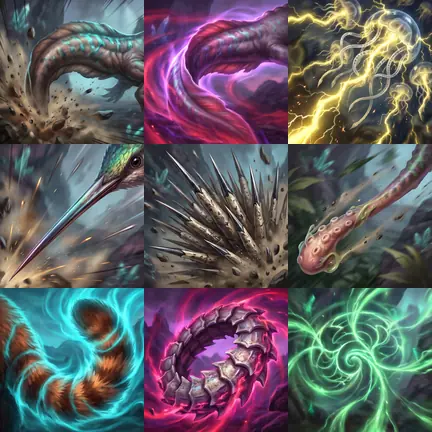
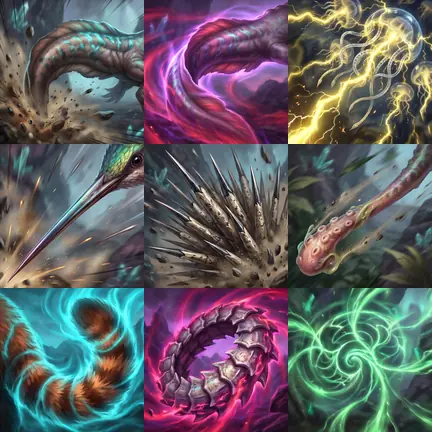
wip(art): ability sheets cut from Weave Lite runs
Claude-Session: https://claude.ai/code/session_01WQBAi8Rzch2GYdNNGSzaZ5

diff --git a/src/ui/ability-art.js b/src/ui/ability-art.js
@@ -11,115 +11,115 @@
   U.ABILITY_SHEETS = [
     ['axo_tail.P', 'axo_tail.E', 'jel_sting.E', 'hmb_needle.P', 'por_quills.P', 'cha_tongue.P', 'rpa_tail.E', 'sea_plates.E', 'hum_mind.E'],
     ['tig_stripes.P', 'tig_stripes.E', 'che_claws.P', 'oct_ink.E', 'eel_discharge.P', 'pea_sweep.E', 'sco_sting.P', 'owl_silent.E', 'cro_roll.P'],
-    ['hum_coop.P', 'hum_coop.E', 'hum_general.P', 'hum_general.E', 'hum_grip.P', 'hum_grip.E', 'hum_lang.P', 'hum_lang.E', 'hum_mind.P'],
-    ['hum_pattern.P', 'hum_pattern.E', 'hum_persist.P', 'hum_persist.E', 'hum_throw.P', 'hum_throw.E', 'hum_tool.P', 'hum_tool.E', 'jer_burrow.P'],
-    ['jer_burrow.E', 'jer_cache.P', 'jer_cache.E', 'jer_ears.P', 'jer_ears.E', 'jer_erratic.P', 'jer_erratic.E', 'jer_gnaw.P', 'jer_gnaw.E'],
-    ['jer_leap.P', 'jer_leap.E', 'jer_tail.P', 'jer_tail.E', 'jer_torpor.P', 'jer_torpor.E', 'jer_vibrissae.P', 'jer_vibrissae.E', 'hop_catapult.P'],
-    ['hop_catapult.E', 'hop_exo.P', 'hop_exo.E', 'hop_eyes.P', 'hop_eyes.E', 'hop_glide.P', 'hop_glide.E', 'hop_mandibles.P', 'hop_mandibles.E'],
-    ['hop_molt.P', 'hop_molt.E', 'hop_strid.P', 'hop_strid.E', 'hop_swarm.P', 'hop_swarm.E', 'hop_tireless.P', 'hop_tireless.E', 'owl_bones.P'],
-    ['owl_bones.E', 'owl_foresight.P', 'owl_foresight.E', 'owl_night.P', 'owl_night.E', 'owl_silent.P', 'owl_soar.P', 'owl_soar.E', 'owl_sound.P'],
-    ['owl_sound.E', 'owl_swivel.P', 'owl_swivel.E', 'owl_talon.P', 'owl_talon.E', 'owl_threat.P', 'owl_threat.E', 'oct_arms.P', 'oct_arms.E'],
-    ['oct_bite.P', 'oct_bite.E', 'oct_chemo.P', 'oct_chemo.E', 'oct_cloak.P', 'oct_cloak.E', 'oct_imperson.P', 'oct_imperson.E', 'oct_ink.P'],
-    ['oct_intellect.P', 'oct_intellect.E', 'oct_jet.P', 'oct_jet.E', 'oct_squeeze.P', 'oct_squeeze.E', 'gec_autotomy.P', 'gec_autotomy.E', 'gec_basking.P'],
+    ['hum_coop.P', 'hum_coop.E', 'hum_grip.P', 'hum_grip.E', 'hum_lang.P', 'hum_lang.E', 'hum_mind.P', 'hum_pattern.P', 'hum_pattern.E'],
+    ['hum_persist.P', 'hum_persist.E', 'hum_throw.P', 'hum_throw.E', 'hum_tool.P', 'hum_tool.E', 'owl_silent.P', 'owl_sound.P', 'owl_sound.E'],
+    ['owl_talon.P', 'owl_talon.E', 'oct_cloak.P', 'oct_cloak.E', 'oct_jet.P', 'oct_jet.E', 'axo_regen.P', 'axo_regen.E', 'eel_discharge.E'],
+    ['eel_electro.P', 'eel_electro.E', 'ott_kelp.P', 'ott_kelp.E', 'wea_musk.P', 'wea_musk.E', 'mou_scurry.P', 'mou_scurry.E', 'mou_tiny.P'],
+    ['mou_tiny.E', 'heh_burst.P', 'heh_burst.E', 'heh_spines.P', 'heh_spines.E', 'fla_march.P', 'fla_march.E', 'fla_salt.P', 'fla_salt.E'],
+    ['rav_carrion.P', 'rav_carrion.E', 'rav_mob.P', 'rav_mob.E', 'tor_beak.P', 'tor_beak.E', 'tor_shell.P', 'tor_shell.E', 'koi_calm.P'],
+    ['koi_calm.E', 'koi_gold.P', 'koi_gold.E', 'msh_colours.P', 'msh_colours.E', 'msh_punch.P', 'msh_punch.E', 'msh_spear.P', 'msh_spear.E'],
+    ['hum_general.P', 'hum_general.E', 'owl_bones.P', 'owl_bones.E', 'owl_foresight.P', 'owl_foresight.E', 'owl_night.P', 'owl_night.E', 'owl_soar.P'],
+    ['owl_soar.E', 'owl_swivel.P', 'owl_swivel.E', 'owl_threat.P', 'owl_threat.E', 'oct_arms.P', 'oct_arms.E', 'oct_bite.P', 'oct_bite.E'],
+    ['oct_chemo.P', 'oct_chemo.E', 'oct_imperson.P', 'oct_imperson.E', 'oct_ink.P', 'oct_intellect.P', 'oct_intellect.E', 'oct_squeeze.P', 'oct_squeeze.E'],
+    ['axo_degen.P', 'axo_degen.E', 'axo_gills.P', 'axo_gills.E', 'axo_lateral.P', 'axo_lateral.E', 'axo_meta.P', 'axo_meta.E', 'axo_neoteny.P'],
+    ['axo_neoteny.E', 'axo_suction.P', 'axo_suction.E', 'axo_toxic.P', 'axo_toxic.E', 'eel_buoyancy.P', 'eel_buoyancy.E', 'eel_chargeup.P', 'eel_chargeup.E'],
+    ['eel_doublet.P', 'eel_doublet.E', 'eel_galvanic.P', 'eel_galvanic.E', 'eel_gulp.P', 'eel_gulp.E', 'eel_insulated.P', 'eel_insulated.E', 'eel_ribbon.P'],
+    ['eel_ribbon.E', 'ott_raft.P', 'ott_raft.E', 'ott_roll.P', 'ott_roll.E', 'ott_shell.P', 'ott_shell.E', 'ott_whisker.P', 'ott_whisker.E'],
+    ['wea_ferocity.P', 'wea_ferocity.E', 'wea_fur.P', 'wea_fur.E', 'mou_gap.P', 'mou_gap.E', 'mou_squeak.P', 'mou_squeak.E', 'mou_stash.P'],
+    ['mou_stash.E', 'hed_venom.P', 'hed_venom.E', 'heh_anoint.P', 'heh_anoint.E', 'heh_forage.P', 'heh_forage.E', 'heh_hibernate.P', 'heh_hibernate.E'],
+    ['heh_huff.P', 'heh_huff.E', 'heh_snuffle.P', 'heh_snuffle.E', 'fla_filter.P', 'fla_filter.E', 'fla_milk.P', 'fla_milk.E', 'fla_oneleg.P'],
+    ['fla_oneleg.E', 'fla_pink.P', 'fla_pink.E', 'bir_mimic.P', 'bir_mimic.E', 'rav_cache.P', 'rav_cache.E', 'rav_memory.P', 'rav_memory.E'],
+    ['rav_snow.P', 'rav_snow.E', 'rav_wolf.P', 'rav_wolf.E', 'tor_plod.P', 'tor_plod.E', 'tor_sure.P', 'tor_sure.E', 'tor_withdraw.P'],
+    ['tor_withdraw.E', 'fis_school.P', 'fis_school.E', 'koi_gate.P', 'koi_gate.E', 'koi_shimmer.P', 'koi_shimmer.E', 'koi_up.P', 'koi_up.E'],
+    ['msh_burrow.P', 'msh_burrow.E', 'msh_glow.P', 'msh_glow.E', 'msh_ritual.P', 'msh_ritual.E', 'jer_burrow.P', 'jer_burrow.E', 'jer_cache.P'],
+    ['jer_cache.E', 'jer_ears.P', 'jer_ears.E', 'jer_erratic.P', 'jer_erratic.E', 'jer_gnaw.P', 'jer_gnaw.E', 'jer_leap.P', 'jer_leap.E'],
+    ['jer_tail.P', 'jer_tail.E', 'jer_torpor.P', 'jer_torpor.E', 'jer_vibrissae.P', 'jer_vibrissae.E', 'hop_catapult.P', 'hop_catapult.E', 'hop_exo.P'],
+    ['hop_exo.E', 'hop_eyes.P', 'hop_eyes.E', 'hop_glide.P', 'hop_glide.E', 'hop_mandibles.P', 'hop_mandibles.E', 'hop_molt.P', 'hop_molt.E'],
+    ['hop_strid.P', 'hop_strid.E', 'hop_swarm.P', 'hop_swarm.E', 'hop_tireless.P', 'hop_tireless.E', 'gec_autotomy.P', 'gec_autotomy.E', 'gec_basking.P'],
     ['gec_basking.E', 'gec_forensic.P', 'gec_forensic.E', 'gec_hide.P', 'gec_hide.E', 'gec_lockjaw.P', 'gec_lockjaw.E', 'gec_patience.P', 'gec_patience.E'],
-    ['gec_scent.P', 'gec_scent.E', 'gec_setae.P', 'gec_setae.E', 'gec_sprint.P', 'gec_sprint.E', 'axo_degen.P', 'axo_degen.E', 'axo_gills.P'],
-    ['axo_gills.E', 'axo_lateral.P', 'axo_lateral.E', 'axo_meta.P', 'axo_meta.E', 'axo_neoteny.P', 'axo_neoteny.E', 'axo_regen.P', 'axo_regen.E'],
-    ['axo_suction.P', 'axo_suction.E', 'axo_toxic.P', 'axo_toxic.E', 'eel_buoyancy.P', 'eel_buoyancy.E', 'eel_chargeup.P', 'eel_chargeup.E', 'eel_discharge.E'],
-    ['eel_doublet.P', 'eel_doublet.E', 'eel_electro.P', 'eel_electro.E', 'eel_galvanic.P', 'eel_galvanic.E', 'eel_gulp.P', 'eel_gulp.E', 'eel_insulated.P'],
-    ['eel_insulated.E', 'eel_ribbon.P', 'eel_ribbon.E', 'fly_digest.P', 'fly_digest.E', 'fly_dormancy.P', 'fly_dormancy.E', 'fly_hairs.P', 'fly_hairs.E'],
-    ['fly_lure.P', 'fly_lure.E', 'fly_photo.P', 'fly_photo.E', 'fly_rhizome.P', 'fly_rhizome.E', 'fly_root.P', 'fly_root.E', 'fly_snap.P'],
-    ['fly_snap.E', 'fly_vine.P', 'fly_vine.E', 'cor_bond.P', 'cor_bond.E', 'cor_decomp.P', 'cor_decomp.E', 'cor_drain.P', 'cor_drain.E'],
-    ['cor_enzyme.P', 'cor_enzyme.E', 'cor_hijack.P', 'cor_hijack.E', 'cor_network.P', 'cor_network.E', 'cor_radio.P', 'cor_radio.E', 'cor_regrowth.P'],
-    ['cor_regrowth.E', 'cor_spore.P', 'cor_spore.E', 'tar_claw.P', 'tar_claw.E', 'tar_cling.P', 'tar_cling.E', 'tar_crypto.P', 'tar_crypto.E'],
-    ['tar_dsup.P', 'tar_dsup.E', 'tar_extremo.P', 'tar_extremo.E', 'tar_replicate.P', 'tar_replicate.E', 'tar_revival.P', 'tar_revival.E', 'tar_stylet.P'],
-    ['tar_stylet.E', 'tar_vitrify.P', 'tar_vitrify.E', 'ora_leaf.P', 'ora_leaf.E', 'ora_memory.P', 'ora_memory.E', 'ora_reach.P', 'ora_reach.E'],
-    ['ora_study.P', 'ora_study.E', 'pri_canopy.P', 'pri_canopy.E', 'pri_groom.P', 'pri_groom.E', 'lem_scent.P', 'lem_scent.E', 'lem_stink.P'],
-    ['lem_stink.E', 'lem_sun.P', 'lem_sun.E', 'lem_tail.P', 'lem_tail.E', 'pri_troop.P', 'pri_troop.E', 'man_charge.P', 'man_charge.E'],
-    ['man_cheek.P', 'man_cheek.E', 'man_fang.P', 'man_fang.E', 'man_paint.P', 'man_paint.E', 'cat_bite.P', 'cat_bite.E', 'cat_claws.P'],
-    ['cat_claws.E', 'cat_eyes.P', 'cat_eyes.E', 'cat_feet.P', 'cat_feet.E', 'cat_pounce.P', 'cat_pounce.E', 'cat_stalk.P', 'cat_stalk.E'],
-    ['cat_tufts.P', 'cat_tufts.E', 'lyn_ghost.P', 'lyn_ghost.E', 'lyn_snowshoe.P', 'lyn_snowshoe.E', 'car_leap.P', 'car_leap.E', 'car_swat.P'],
-    ['car_swat.E', 'oce_descent.P', 'oce_descent.E', 'oce_prowl.P', 'oce_prowl.E', 'oce_rosette.P', 'oce_rosette.E', 'tig_roar.P', 'tig_roar.E'],
-    ['tig_swim.P', 'tig_swim.E', 'che_claws.E', 'che_hyper.P', 'che_hyper.E', 'che_rudder.P', 'che_rudder.E', 'che_tear.P', 'che_tear.E'],
-    ['che_trip.P', 'che_trip.E', 'dog_howl.P', 'dog_howl.E', 'dog_nose.P', 'dog_nose.E', 'dog_pin.P', 'dog_pin.E', 'dog_trot.P'],
-    ['dog_trot.E', 'fen_ears.P', 'fen_ears.E', 'fen_night.P', 'fen_night.E', 'fen_thrift.P', 'fen_thrift.E', 'fox_den.P', 'fox_den.E'],
-    ['fox_pounce.P', 'fox_pounce.E', 'fox_brush.P', 'fox_brush.E', 'fox_cunning.P', 'fox_cunning.E', 'fox_magnet.P', 'fox_magnet.E', 'dog_opp.P'],
-    ['dog_opp.E', 'dog_yip.P', 'dog_yip.E', 'jac_coat.P', 'jac_coat.E', 'jac_luck.P', 'jac_luck.E', 'jac_pair.P', 'jac_pair.E'],
-    ['coy_adapt.P', 'coy_adapt.E', 'coy_lope.P', 'coy_lope.E', 'coy_trick.P', 'coy_trick.E', 'hye_crush.P', 'hye_crush.E', 'hye_endure.P'],
-    ['hye_endure.E', 'hye_matri.P', 'hye_matri.E', 'hye_scav.P', 'hye_scav.E', 'hye_whoop.P', 'hye_whoop.E', 'ott_kelp.P', 'ott_kelp.E'],
-    ['ott_raft.P', 'ott_raft.E', 'ott_roll.P', 'ott_roll.E', 'ott_shell.P', 'ott_shell.E', 'ott_whisker.P', 'ott_whisker.E', 'wea_ferocity.P'],
-    ['wea_ferocity.E', 'wea_fur.P', 'wea_fur.E', 'wea_musk.P', 'wea_musk.E', 'bad_bee.P', 'bad_bee.E', 'bad_bite.P', 'bad_bite.E'],
-    ['bad_dig.P', 'bad_dig.E', 'bad_hide.P', 'bad_hide.E', 'bad_never.P', 'bad_never.E', 'bad_venom.P', 'bad_venom.E', 'rpa_bamboo.P'],
-    ['rpa_bamboo.E', 'rpa_cold.P', 'rpa_cold.E', 'rpa_nap.P', 'rpa_nap.E', 'rpa_tail.P', 'rpa_tall.P', 'rpa_tall.E', 'sea_blubber.P'],
-    ['sea_blubber.E', 'sea_breath.P', 'sea_breath.E', 'sea_tusk.P', 'sea_tusk.E', 'wal_bellow.P', 'wal_bellow.E', 'wal_haul.P', 'wal_haul.E'],
-    ['wal_ice.P', 'wal_ice.E', 'wal_suction.P', 'wal_suction.E', 'wal_ton.P', 'wal_ton.E', 'wal_whisker.P', 'wal_whisker.E', 'orc_apex.P'],
-    ['orc_apex.E', 'orc_beach.P', 'orc_beach.E', 'orc_breach.P', 'orc_breach.E', 'orc_tactics.P', 'orc_tactics.E', 'orc_wave.P', 'orc_wave.E'],
-    ['sea_echo.P', 'sea_echo.E', 'sea_song.P', 'sea_song.E', 'nar_dive.P', 'nar_dive.E', 'nar_ghost.P', 'nar_ghost.E', 'nar_lead.P'],
-    ['nar_lead.E', 'nar_sense.P', 'nar_sense.E', 'hoof_chew.P', 'hoof_chew.E', 'hoof_eyes.P', 'hoof_eyes.E', 'hoof_hooves.P', 'hoof_hooves.E'],
-    ['hoof_horn.P', 'hoof_horn.E', 'hoof_kick.P', 'hoof_kick.E', 'hoof_ring.P', 'hoof_ring.E', 'yak_air.P', 'yak_air.E', 'yak_bearer.P'],
-    ['yak_bearer.E', 'yak_coat.P', 'yak_coat.E', 'bis_hump.P', 'bis_hump.E', 'bis_stampede.P', 'bis_stampede.E', 'bis_wallow.P', 'bis_wallow.E'],
-    ['ory_mirage.P', 'ory_mirage.E', 'ory_rapier.P', 'ory_rapier.E', 'ory_store.P', 'ory_store.E', 'ram_butt.P', 'ram_butt.E', 'ram_curl.P'],
-    ['ram_curl.E', 'ram_sure.P', 'ram_sure.E', 'hoof_antlers.P', 'hoof_antlers.E', 'hoof_bound.P', 'hoof_bound.E', 'moo_bellow.P', 'moo_bellow.E'],
-    ['moo_stand.P', 'moo_stand.E', 'moo_wade.P', 'moo_wade.E', 'dee_dapple.P', 'dee_dapple.E', 'dee_ears.P', 'dee_ears.E', 'dee_spring.P'],
-    ['dee_spring.E', 'zeb_bite.P', 'zeb_bite.E', 'zeb_bolt.P', 'zeb_bolt.E', 'zeb_dazzle.P', 'zeb_dazzle.E', 'zeb_wall.P', 'zeb_wall.E'],
-    ['zeb_water.P', 'zeb_water.E', 'mou_gap.P', 'mou_gap.E', 'mou_scurry.P', 'mou_scurry.E', 'mou_squeak.P', 'mou_squeak.E', 'mou_stash.P'],
-    ['mou_stash.E', 'mou_tiny.P', 'mou_tiny.E', 'por_back.P', 'por_back.E', 'por_bark.P', 'por_bark.E', 'por_climb.P', 'por_climb.E'],
-    ['por_quills.E', 'por_rattle.P', 'por_rattle.E', 'por_shed.P', 'por_shed.E', 'por_waddle.P', 'por_waddle.E', 'har_box.P', 'har_box.E'],
-    ['har_ears.P', 'har_ears.E', 'har_low.P', 'har_low.E', 'har_march.P', 'har_march.E', 'har_thump.P', 'har_thump.E', 'har_winter.P'],
-    ['har_winter.E', 'bha_bolt.P', 'bha_bolt.E', 'bha_forage.P', 'bha_forage.E', 'bha_kick.P', 'bha_kick.E', 'arm_slow.P', 'arm_slow.E'],
-    ['slo_algae.P', 'slo_algae.E', 'slo_hang.P', 'slo_hang.E', 'slo_hook.P', 'slo_hook.E', 'slo_neck.P', 'slo_neck.E', 'slo_sleep.P'],
-    ['slo_sleep.E', 'slo_swim.P', 'slo_swim.E', 'slo_swipe.P', 'slo_swipe.E', 'slo_unhurried.P', 'slo_unhurried.E', 'adi_bands.P', 'adi_bands.E'],
-    ['adi_breath.P', 'adi_breath.E', 'adi_jump.P', 'adi_jump.E', 'adi_shove.P', 'adi_shove.E', 'adi_snuffle.P', 'adi_snuffle.E', 'arm_curl.P'],
-    ['arm_curl.E', 'arm_dig.P', 'arm_dig.E', 'arm_tongue.P', 'arm_tongue.E', 'pan_ants.P', 'pan_ants.E', 'pan_edges.P', 'pan_edges.E'],
-    ['pan_scales.P', 'pan_scales.E', 'pan_tail.P', 'pan_tail.E', 'pan_upright.P', 'pan_upright.E', 'hed_venom.P', 'hed_venom.E', 'heh_anoint.P'],
-    ['heh_anoint.E', 'heh_burst.P', 'heh_burst.E', 'heh_forage.P', 'heh_forage.E', 'heh_hibernate.P', 'heh_hibernate.E', 'heh_huff.P', 'heh_huff.E'],
-    ['heh_snuffle.P', 'heh_snuffle.E', 'heh_spines.P', 'heh_spines.E', 'kan_box.P', 'kan_box.E', 'kan_hop.P', 'kan_hop.E', 'kan_kickoff.P'],
-    ['kan_kickoff.E', 'kan_lick.P', 'kan_lick.E', 'kan_long.P', 'kan_long.E', 'kan_mob.P', 'kan_mob.E', 'kan_prop.P', 'kan_prop.E'],
-    ['kan_tailkick.P', 'kan_tailkick.E', 'pou_pouch.P', 'pou_pouch.E', 'opo_dead.P', 'opo_dead.E', 'opo_groom.P', 'opo_groom.E', 'opo_hiss.P'],
-    ['opo_hiss.E', 'opo_nose.P', 'opo_nose.E', 'opo_tail.P', 'opo_tail.E', 'opo_thumb.P', 'opo_thumb.E', 'opo_wander.P', 'opo_wander.E'],
-    ['pla_cheek.P', 'pla_cheek.E', 'pla_dive.P', 'pla_dive.E', 'pla_egg.P', 'pla_egg.E', 'pla_electro.P', 'pla_electro.E', 'pla_odd.P'],
-    ['pla_odd.E', 'pla_shut.P', 'pla_shut.E', 'pla_spur.P', 'pla_spur.E', 'pla_web.P', 'pla_web.E', 'eag_fish.P', 'eag_fish.E'],
-    ['eag_lock.P', 'eag_lock.E', 'eag_nest.P', 'eag_nest.E', 'eag_scream.P', 'eag_scream.E', 'eag_soar.P', 'eag_soar.E', 'rap_sight.P'],
-    ['rap_sight.E', 'rap_stoop.P', 'rap_stoop.E', 'haw_bind.P', 'haw_bind.E', 'haw_hedge.P', 'haw_hedge.E', 'haw_hyper.P', 'haw_hyper.E'],
-    ['haw_kite.P', 'haw_kite.E', 'haw_mantle.P', 'haw_mantle.E', 'cra_dance.P', 'cra_dance.E', 'cra_migrate.P', 'cra_migrate.E', 'cra_stride.P'],
-    ['cra_stride.E', 'cra_trumpet.P', 'cra_trumpet.E', 'wad_legs.P', 'wad_legs.E', 'wad_spear.P', 'wad_spear.E', 'wad_still.P', 'wad_still.E'],
-    ['wad_wade.P', 'wad_wade.E', 'her_neck.P', 'her_neck.E', 'her_rookery.P', 'her_rookery.E', 'her_shade.P', 'her_shade.E', 'egr_cattle.P'],
-    ['egr_cattle.E', 'egr_lift.P', 'egr_lift.E', 'egr_plumes.P', 'egr_plumes.E', 'egr_stir.P', 'egr_stir.E', 'ibi_flock.P', 'ibi_flock.E'],
-    ['ibi_flood.P', 'ibi_flood.E', 'ibi_probe.P', 'ibi_probe.E', 'ibi_scribe.P', 'ibi_scribe.E', 'bil_big.P', 'bil_big.E', 'sho_clatter.P'],
-    ['sho_clatter.E', 'sho_collapse.P', 'sho_collapse.E', 'sho_ghost.P', 'sho_ghost.E', 'fla_filter.P', 'fla_filter.E', 'fla_march.P', 'fla_march.E'],
-    ['fla_milk.P', 'fla_milk.E', 'fla_oneleg.P', 'fla_oneleg.E', 'fla_pink.P', 'fla_pink.E', 'fla_salt.P', 'fla_salt.E', 'puf_beakful.P'],
-    ['puf_beakful.E', 'puf_bill.P', 'puf_bill.E', 'puf_cliff.P', 'puf_cliff.E', 'puf_wingdive.P', 'puf_wingdive.E', 'sea_plunge.P', 'sea_plunge.E'],
-    ['sea_proof.P', 'sea_proof.E', 'sea_salt.P', 'sea_salt.E', 'pel_crash.P', 'pel_crash.E', 'pel_glide.P', 'pel_glide.E', 'pel_line.P'],
-    ['pel_line.E', 'pel_scoop.P', 'pel_scoop.E', 'boo_charm.P', 'boo_charm.E', 'boo_colony.P', 'boo_colony.E', 'boo_feet.P', 'boo_feet.E'],
-    ['boo_nest.P', 'boo_nest.E', 'boo_shoal.P', 'boo_shoal.E', 'bir_mimic.P', 'bir_mimic.E', 'rav_cache.P', 'rav_cache.E', 'rav_carrion.P'],
-    ['rav_carrion.E', 'rav_memory.P', 'rav_memory.E', 'rav_mob.P', 'rav_mob.E', 'rav_snow.P', 'rav_snow.E', 'rav_wolf.P', 'rav_wolf.E'],
-    ['bir_life.P', 'bir_life.E', 'par_chatter.P', 'par_chatter.E', 'par_clay.P', 'par_clay.E', 'par_colours.P', 'par_colours.E', 'par_crack.P'],
-    ['par_crack.E', 'tou_bluff.P', 'tou_bluff.E', 'tou_cool.P', 'tou_cool.E', 'tou_croak.P', 'tou_croak.E', 'tou_fold.P', 'tou_fold.E'],
-    ['tou_hop.P', 'tou_hop.E', 'tou_raid.P', 'tou_raid.E', 'tou_toss.P', 'tou_toss.E', 'hmb_back.P', 'hmb_back.E', 'hmb_beats.P'],
-    ['hmb_beats.E', 'hmb_fury.P', 'hmb_fury.E', 'hmb_hover.P', 'hmb_hover.E', 'hmb_memory.P', 'hmb_memory.E', 'hmb_nectar.P', 'hmb_nectar.E'],
-    ['hmb_needle.E', 'hmb_torpor.P', 'hmb_torpor.E', 'bir_alarm.P', 'bir_alarm.E', 'bir_fan.P', 'bir_fan.E', 'bir_spur.P', 'bir_spur.E'],
-    ['pea_eyes.P', 'pea_eyes.E', 'pea_iris.P', 'pea_iris.E', 'pea_roost.P', 'pea_roost.E', 'pea_snake.P', 'pea_snake.E', 'pea_sweep.P'],
-    ['gbd_sprint.P', 'gbd_sprint.E', 'ost_gizzard.P', 'ost_gizzard.E', 'ost_head.P', 'ost_head.E', 'ost_nest.P', 'ost_nest.E', 'ost_stride.P'],
-    ['ost_stride.E', 'ost_wing.P', 'ost_wing.E', 'tur_gobble.P', 'tur_gobble.E', 'tur_roost.P', 'tur_roost.E', 'tur_watch.P', 'tur_watch.E'],
-    ['tur_wattle.P', 'tur_wattle.E', 'cha_casque.P', 'cha_casque.E', 'cha_colour.P', 'cha_colour.E', 'cha_grip.P', 'cha_grip.E', 'cha_sway.P'],
-    ['cha_sway.E', 'cha_tongue.E', 'cha_turret.P', 'cha_turret.E', 'bas_crest.P', 'bas_crest.E', 'bas_dive.P', 'bas_dive.E', 'bas_drop.P'],
-    ['bas_drop.E', 'bas_sprint.P', 'bas_sprint.E', 'bas_two.P', 'bas_two.E', 'bas_water.P', 'bas_water.E', 'hor_ants.P', 'hor_ants.E'],
-    ['hor_crown.P', 'hor_crown.E', 'hor_flat.P', 'hor_flat.E', 'hor_puff.P', 'hor_puff.E', 'hor_shimmy.P', 'hor_shimmy.E', 'hor_squirt.P'],
-    ['hor_squirt.E', 'cro_gape.P', 'cro_gape.E', 'cro_jaws.P', 'cro_jaws.E', 'cro_king.P', 'cro_king.E', 'cro_lurk.P', 'cro_lurk.E'],
-    ['cro_roll.E', 'cro_tail.P', 'cro_tail.E', 'rep_heart.P', 'rep_heart.E', 'rep_hide.P', 'rep_hide.E', 'tor_beak.P', 'tor_beak.E'],
-    ['tor_plod.P', 'tor_plod.E', 'tor_shell.P', 'tor_shell.E', 'tor_sure.P', 'tor_sure.E', 'tor_withdraw.P', 'tor_withdraw.E', 'new_belly.P'],
-    ['new_belly.E', 'new_eft.P', 'new_eft.E', 'new_return.P', 'new_return.E', 'new_rough.P', 'new_rough.E', 'new_tail.P', 'new_tail.E'],
-    ['tfr_chorus.P', 'tfr_chorus.E', 'tfr_glass.P', 'tfr_glass.E', 'tfr_leap.P', 'tfr_leap.E', 'tfr_rain.P', 'tfr_rain.E', 'tfr_startle.P'],
-    ['tfr_startle.E', 'tfr_tongue.P', 'tfr_tongue.E', 'fis_school.P', 'fis_school.E', 'koi_calm.P', 'koi_calm.E', 'koi_gate.P', 'koi_gate.E'],
-    ['koi_gold.P', 'koi_gold.E', 'koi_shimmer.P', 'koi_shimmer.E', 'koi_up.P', 'koi_up.E', 'clo_anemone.P', 'clo_anemone.E', 'clo_dart.P'],
-    ['clo_dart.E', 'clo_mucus.P', 'clo_mucus.E', 'clo_pair.P', 'clo_pair.E', 'clo_pop.P', 'clo_pop.E', 'clo_role.P', 'clo_role.E'],
-    ['lio_corral.P', 'lio_corral.E', 'lio_gulp.P', 'lio_gulp.E', 'lio_hover.P', 'lio_hover.E', 'lio_invader.P', 'lio_invader.E', 'lio_night.P'],
-    ['lio_night.E', 'lio_spines.P', 'lio_spines.E', 'lio_warn.P', 'lio_warn.E', 'sea_anchor.P', 'sea_anchor.E', 'sea_drift.P', 'sea_drift.E'],
-    ['sea_fin.P', 'sea_fin.E', 'sea_plates.P', 'sea_snap.P', 'sea_snap.E', 'snl_radula.P', 'snl_radula.E', 'snl_rain.P', 'snl_rain.E'],
-    ['snl_seal.P', 'snl_seal.E', 'snl_slime.P', 'snl_slime.E', 'snl_stalks.P', 'snl_stalks.E', 'jel_bloom.P', 'jel_bloom.E', 'jel_glow.P'],
-    ['jel_glow.E', 'jel_pulse.P', 'jel_pulse.E', 'jel_reverse.P', 'jel_reverse.E', 'jel_sting.P', 'jel_trail.P', 'jel_trail.E', 'crs_carapace.P'],
-    ['crs_carapace.E', 'crs_molt.P', 'crs_molt.E', 'lob_crusher.P', 'lob_crusher.E', 'lob_den.P', 'lob_den.E', 'lob_feelers.P', 'lob_feelers.E'],
-    ['lob_flip.P', 'lob_flip.E', 'lob_march.P', 'lob_march.E', 'lob_pincer.P', 'lob_pincer.E', 'msh_burrow.P', 'msh_burrow.E', 'msh_colours.P'],
-    ['msh_colours.E', 'msh_glow.P', 'msh_glow.E', 'msh_punch.P', 'msh_punch.E', 'msh_ritual.P', 'msh_ritual.E', 'msh_spear.P', 'msh_spear.E'],
+    ['gec_scent.P', 'gec_scent.E', 'gec_setae.P', 'gec_setae.E', 'gec_sprint.P', 'gec_sprint.E', 'fly_digest.P', 'fly_digest.E', 'fly_dormancy.P'],
+    ['fly_dormancy.E', 'fly_hairs.P', 'fly_hairs.E', 'fly_lure.P', 'fly_lure.E', 'fly_photo.P', 'fly_photo.E', 'fly_rhizome.P', 'fly_rhizome.E'],
+    ['fly_root.P', 'fly_root.E', 'fly_snap.P', 'fly_snap.E', 'fly_vine.P', 'fly_vine.E', 'cor_bond.P', 'cor_bond.E', 'cor_decomp.P'],
+    ['cor_decomp.E', 'cor_drain.P', 'cor_drain.E', 'cor_enzyme.P', 'cor_enzyme.E', 'cor_hijack.P', 'cor_hijack.E', 'cor_network.P', 'cor_network.E'],
+    ['cor_radio.P', 'cor_radio.E', 'cor_regrowth.P', 'cor_regrowth.E', 'cor_spore.P', 'cor_spore.E', 'tar_claw.P', 'tar_claw.E', 'tar_cling.P'],
+    ['tar_cling.E', 'tar_crypto.P', 'tar_crypto.E', 'tar_dsup.P', 'tar_dsup.E', 'tar_extremo.P', 'tar_extremo.E', 'tar_replicate.P', 'tar_replicate.E'],
+    ['tar_revival.P', 'tar_revival.E', 'tar_stylet.P', 'tar_stylet.E', 'tar_vitrify.P', 'tar_vitrify.E', 'ora_leaf.P', 'ora_leaf.E', 'ora_memory.P'],
+    ['ora_memory.E', 'ora_reach.P', 'ora_reach.E', 'ora_study.P', 'ora_study.E', 'pri_canopy.P', 'pri_canopy.E', 'pri_groom.P', 'pri_groom.E'],
+    ['lem_scent.P', 'lem_scent.E', 'lem_stink.P', 'lem_stink.E', 'lem_sun.P', 'lem_sun.E', 'lem_tail.P', 'lem_tail.E', 'pri_troop.P'],
+    ['pri_troop.E', 'man_charge.P', 'man_charge.E', 'man_cheek.P', 'man_cheek.E', 'man_fang.P', 'man_fang.E', 'man_paint.P', 'man_paint.E'],
+    ['cat_bite.P', 'cat_bite.E', 'cat_claws.P', 'cat_claws.E', 'cat_eyes.P', 'cat_eyes.E', 'cat_feet.P', 'cat_feet.E', 'cat_pounce.P'],
+    ['cat_pounce.E', 'cat_stalk.P', 'cat_stalk.E', 'cat_tufts.P', 'cat_tufts.E', 'lyn_ghost.P', 'lyn_ghost.E', 'lyn_snowshoe.P', 'lyn_snowshoe.E'],
+    ['car_leap.P', 'car_leap.E', 'car_swat.P', 'car_swat.E', 'oce_descent.P', 'oce_descent.E', 'oce_prowl.P', 'oce_prowl.E', 'oce_rosette.P'],
+    ['oce_rosette.E', 'tig_roar.P', 'tig_roar.E', 'tig_swim.P', 'tig_swim.E', 'che_claws.E', 'che_hyper.P', 'che_hyper.E', 'che_rudder.P'],
+    ['che_rudder.E', 'che_tear.P', 'che_tear.E', 'che_trip.P', 'che_trip.E', 'dog_howl.P', 'dog_howl.E', 'dog_nose.P', 'dog_nose.E'],
+    ['dog_pin.P', 'dog_pin.E', 'dog_trot.P', 'dog_trot.E', 'fen_ears.P', 'fen_ears.E', 'fen_night.P', 'fen_night.E', 'fen_thrift.P'],
+    ['fen_thrift.E', 'fox_den.P', 'fox_den.E', 'fox_pounce.P', 'fox_pounce.E', 'fox_brush.P', 'fox_brush.E', 'fox_cunning.P', 'fox_cunning.E'],
+    ['fox_magnet.P', 'fox_magnet.E', 'dog_opp.P', 'dog_opp.E', 'dog_yip.P', 'dog_yip.E', 'jac_coat.P', 'jac_coat.E', 'jac_luck.P'],
+    ['jac_luck.E', 'jac_pair.P', 'jac_pair.E', 'coy_adapt.P', 'coy_adapt.E', 'coy_lope.P', 'coy_lope.E', 'coy_trick.P', 'coy_trick.E'],
+    ['hye_crush.P', 'hye_crush.E', 'hye_endure.P', 'hye_endure.E', 'hye_matri.P', 'hye_matri.E', 'hye_scav.P', 'hye_scav.E', 'hye_whoop.P'],
+    ['hye_whoop.E', 'bad_bee.P', 'bad_bee.E', 'bad_bite.P', 'bad_bite.E', 'bad_dig.P', 'bad_dig.E', 'bad_hide.P', 'bad_hide.E'],
+    ['bad_never.P', 'bad_never.E', 'bad_venom.P', 'bad_venom.E', 'rpa_bamboo.P', 'rpa_bamboo.E', 'rpa_cold.P', 'rpa_cold.E', 'rpa_nap.P'],
+    ['rpa_nap.E', 'rpa_tail.P', 'rpa_tall.P', 'rpa_tall.E', 'sea_blubber.P', 'sea_blubber.E', 'sea_breath.P', 'sea_breath.E', 'sea_tusk.P'],
+    ['sea_tusk.E', 'wal_bellow.P', 'wal_bellow.E', 'wal_haul.P', 'wal_haul.E', 'wal_ice.P', 'wal_ice.E', 'wal_suction.P', 'wal_suction.E'],
+    ['wal_ton.P', 'wal_ton.E', 'wal_whisker.P', 'wal_whisker.E', 'orc_apex.P', 'orc_apex.E', 'orc_beach.P', 'orc_beach.E', 'orc_breach.P'],
+    ['orc_breach.E', 'orc_tactics.P', 'orc_tactics.E', 'orc_wave.P', 'orc_wave.E', 'sea_echo.P', 'sea_echo.E', 'sea_song.P', 'sea_song.E'],
+    ['nar_dive.P', 'nar_dive.E', 'nar_ghost.P', 'nar_ghost.E', 'nar_lead.P', 'nar_lead.E', 'nar_sense.P', 'nar_sense.E', 'hoof_chew.P'],
+    ['hoof_chew.E', 'hoof_eyes.P', 'hoof_eyes.E', 'hoof_hooves.P', 'hoof_hooves.E', 'hoof_horn.P', 'hoof_horn.E', 'hoof_kick.P', 'hoof_kick.E'],
+    ['hoof_ring.P', 'hoof_ring.E', 'yak_air.P', 'yak_air.E', 'yak_bearer.P', 'yak_bearer.E', 'yak_coat.P', 'yak_coat.E', 'bis_hump.P'],
+    ['bis_hump.E', 'bis_stampede.P', 'bis_stampede.E', 'bis_wallow.P', 'bis_wallow.E', 'ory_mirage.P', 'ory_mirage.E', 'ory_rapier.P', 'ory_rapier.E'],
+    ['ory_store.P', 'ory_store.E', 'ram_butt.P', 'ram_butt.E', 'ram_curl.P', 'ram_curl.E', 'ram_sure.P', 'ram_sure.E', 'hoof_antlers.P'],
+    ['hoof_antlers.E', 'hoof_bound.P', 'hoof_bound.E', 'moo_bellow.P', 'moo_bellow.E', 'moo_stand.P', 'moo_stand.E', 'moo_wade.P', 'moo_wade.E'],
+    ['dee_dapple.P', 'dee_dapple.E', 'dee_ears.P', 'dee_ears.E', 'dee_spring.P', 'dee_spring.E', 'zeb_bite.P', 'zeb_bite.E', 'zeb_bolt.P'],
+    ['zeb_bolt.E', 'zeb_dazzle.P', 'zeb_dazzle.E', 'zeb_wall.P', 'zeb_wall.E', 'zeb_water.P', 'zeb_water.E', 'por_back.P', 'por_back.E'],
+    ['por_bark.P', 'por_bark.E', 'por_climb.P', 'por_climb.E', 'por_quills.E', 'por_rattle.P', 'por_rattle.E', 'por_shed.P', 'por_shed.E'],
+    ['por_waddle.P', 'por_waddle.E', 'har_box.P', 'har_box.E', 'har_ears.P', 'har_ears.E', 'har_low.P', 'har_low.E', 'har_march.P'],
+    ['har_march.E', 'har_thump.P', 'har_thump.E', 'har_winter.P', 'har_winter.E', 'bha_bolt.P', 'bha_bolt.E', 'bha_forage.P', 'bha_forage.E'],
+    ['bha_kick.P', 'bha_kick.E', 'arm_slow.P', 'arm_slow.E', 'slo_algae.P', 'slo_algae.E', 'slo_hang.P', 'slo_hang.E', 'slo_hook.P'],
+    ['slo_hook.E', 'slo_neck.P', 'slo_neck.E', 'slo_sleep.P', 'slo_sleep.E', 'slo_swim.P', 'slo_swim.E', 'slo_swipe.P', 'slo_swipe.E'],
+    ['slo_unhurried.P', 'slo_unhurried.E', 'adi_bands.P', 'adi_bands.E', 'adi_breath.P', 'adi_breath.E', 'adi_jump.P', 'adi_jump.E', 'adi_shove.P'],
+    ['adi_shove.E', 'adi_snuffle.P', 'adi_snuffle.E', 'arm_curl.P', 'arm_curl.E', 'arm_dig.P', 'arm_dig.E', 'arm_tongue.P', 'arm_tongue.E'],
+    ['pan_ants.P', 'pan_ants.E', 'pan_edges.P', 'pan_edges.E', 'pan_scales.P', 'pan_scales.E', 'pan_tail.P', 'pan_tail.E', 'pan_upright.P'],
+    ['pan_upright.E', 'kan_box.P', 'kan_box.E', 'kan_hop.P', 'kan_hop.E', 'kan_kickoff.P', 'kan_kickoff.E', 'kan_lick.P', 'kan_lick.E'],
+    ['kan_long.P', 'kan_long.E', 'kan_mob.P', 'kan_mob.E', 'kan_prop.P', 'kan_prop.E', 'kan_tailkick.P', 'kan_tailkick.E', 'pou_pouch.P'],
+    ['pou_pouch.E', 'opo_dead.P', 'opo_dead.E', 'opo_groom.P', 'opo_groom.E', 'opo_hiss.P', 'opo_hiss.E', 'opo_nose.P', 'opo_nose.E'],
+    ['opo_tail.P', 'opo_tail.E', 'opo_thumb.P', 'opo_thumb.E', 'opo_wander.P', 'opo_wander.E', 'pla_cheek.P', 'pla_cheek.E', 'pla_dive.P'],
+    ['pla_dive.E', 'pla_egg.P', 'pla_egg.E', 'pla_electro.P', 'pla_electro.E', 'pla_odd.P', 'pla_odd.E', 'pla_shut.P', 'pla_shut.E'],
+    ['pla_spur.P', 'pla_spur.E', 'pla_web.P', 'pla_web.E', 'eag_fish.P', 'eag_fish.E', 'eag_lock.P', 'eag_lock.E', 'eag_nest.P'],
+    ['eag_nest.E', 'eag_scream.P', 'eag_scream.E', 'eag_soar.P', 'eag_soar.E', 'rap_sight.P', 'rap_sight.E', 'rap_stoop.P', 'rap_stoop.E'],
+    ['haw_bind.P', 'haw_bind.E', 'haw_hedge.P', 'haw_hedge.E', 'haw_hyper.P', 'haw_hyper.E', 'haw_kite.P', 'haw_kite.E', 'haw_mantle.P'],
+    ['haw_mantle.E', 'cra_dance.P', 'cra_dance.E', 'cra_migrate.P', 'cra_migrate.E', 'cra_stride.P', 'cra_stride.E', 'cra_trumpet.P', 'cra_trumpet.E'],
+    ['wad_legs.P', 'wad_legs.E', 'wad_spear.P', 'wad_spear.E', 'wad_still.P', 'wad_still.E', 'wad_wade.P', 'wad_wade.E', 'her_neck.P'],
+    ['her_neck.E', 'her_rookery.P', 'her_rookery.E', 'her_shade.P', 'her_shade.E', 'egr_cattle.P', 'egr_cattle.E', 'egr_lift.P', 'egr_lift.E'],
+    ['egr_plumes.P', 'egr_plumes.E', 'egr_stir.P', 'egr_stir.E', 'ibi_flock.P', 'ibi_flock.E', 'ibi_flood.P', 'ibi_flood.E', 'ibi_probe.P'],
+    ['ibi_probe.E', 'ibi_scribe.P', 'ibi_scribe.E', 'bil_big.P', 'bil_big.E', 'sho_clatter.P', 'sho_clatter.E', 'sho_collapse.P', 'sho_collapse.E'],
+    ['sho_ghost.P', 'sho_ghost.E', 'puf_beakful.P', 'puf_beakful.E', 'puf_bill.P', 'puf_bill.E', 'puf_cliff.P', 'puf_cliff.E', 'puf_wingdive.P'],
+    ['puf_wingdive.E', 'sea_plunge.P', 'sea_plunge.E', 'sea_proof.P', 'sea_proof.E', 'sea_salt.P', 'sea_salt.E', 'pel_crash.P', 'pel_crash.E'],
+    ['pel_glide.P', 'pel_glide.E', 'pel_line.P', 'pel_line.E', 'pel_scoop.P', 'pel_scoop.E', 'boo_charm.P', 'boo_charm.E', 'boo_colony.P'],
+    ['boo_colony.E', 'boo_feet.P', 'boo_feet.E', 'boo_nest.P', 'boo_nest.E', 'boo_shoal.P', 'boo_shoal.E', 'bir_life.P', 'bir_life.E'],
+    ['par_chatter.P', 'par_chatter.E', 'par_clay.P', 'par_clay.E', 'par_colours.P', 'par_colours.E', 'par_crack.P', 'par_crack.E', 'tou_bluff.P'],
+    ['tou_bluff.E', 'tou_cool.P', 'tou_cool.E', 'tou_croak.P', 'tou_croak.E', 'tou_fold.P', 'tou_fold.E', 'tou_hop.P', 'tou_hop.E'],
+    ['tou_raid.P', 'tou_raid.E', 'tou_toss.P', 'tou_toss.E', 'hmb_back.P', 'hmb_back.E', 'hmb_beats.P', 'hmb_beats.E', 'hmb_fury.P'],
+    ['hmb_fury.E', 'hmb_hover.P', 'hmb_hover.E', 'hmb_memory.P', 'hmb_memory.E', 'hmb_nectar.P', 'hmb_nectar.E', 'hmb_needle.E', 'hmb_torpor.P'],
+    ['hmb_torpor.E', 'bir_alarm.P', 'bir_alarm.E', 'bir_fan.P', 'bir_fan.E', 'bir_spur.P', 'bir_spur.E', 'pea_eyes.P', 'pea_eyes.E'],
+    ['pea_iris.P', 'pea_iris.E', 'pea_roost.P', 'pea_roost.E', 'pea_snake.P', 'pea_snake.E', 'pea_sweep.P', 'gbd_sprint.P', 'gbd_sprint.E'],
+    ['ost_gizzard.P', 'ost_gizzard.E', 'ost_head.P', 'ost_head.E', 'ost_nest.P', 'ost_nest.E', 'ost_stride.P', 'ost_stride.E', 'ost_wing.P'],
+    ['ost_wing.E', 'tur_gobble.P', 'tur_gobble.E', 'tur_roost.P', 'tur_roost.E', 'tur_watch.P', 'tur_watch.E', 'tur_wattle.P', 'tur_wattle.E'],
+    ['cha_casque.P', 'cha_casque.E', 'cha_colour.P', 'cha_colour.E', 'cha_grip.P', 'cha_grip.E', 'cha_sway.P', 'cha_sway.E', 'cha_tongue.E'],
+    ['cha_turret.P', 'cha_turret.E', 'bas_crest.P', 'bas_crest.E', 'bas_dive.P', 'bas_dive.E', 'bas_drop.P', 'bas_drop.E', 'bas_sprint.P'],
+    ['bas_sprint.E', 'bas_two.P', 'bas_two.E', 'bas_water.P', 'bas_water.E', 'hor_ants.P', 'hor_ants.E', 'hor_crown.P', 'hor_crown.E'],
+    ['hor_flat.P', 'hor_flat.E', 'hor_puff.P', 'hor_puff.E', 'hor_shimmy.P', 'hor_shimmy.E', 'hor_squirt.P', 'hor_squirt.E', 'cro_gape.P'],
+    ['cro_gape.E', 'cro_jaws.P', 'cro_jaws.E', 'cro_king.P', 'cro_king.E', 'cro_lurk.P', 'cro_lurk.E', 'cro_roll.E', 'cro_tail.P'],
+    ['cro_tail.E', 'rep_heart.P', 'rep_heart.E', 'rep_hide.P', 'rep_hide.E', 'new_belly.P', 'new_belly.E', 'new_eft.P', 'new_eft.E'],
+    ['new_return.P', 'new_return.E', 'new_rough.P', 'new_rough.E', 'new_tail.P', 'new_tail.E', 'tfr_chorus.P', 'tfr_chorus.E', 'tfr_glass.P'],
+    ['tfr_glass.E', 'tfr_leap.P', 'tfr_leap.E', 'tfr_rain.P', 'tfr_rain.E', 'tfr_startle.P', 'tfr_startle.E', 'tfr_tongue.P', 'tfr_tongue.E'],
+    ['clo_anemone.P', 'clo_anemone.E', 'clo_dart.P', 'clo_dart.E', 'clo_mucus.P', 'clo_mucus.E', 'clo_pair.P', 'clo_pair.E', 'clo_pop.P'],
+    ['clo_pop.E', 'clo_role.P', 'clo_role.E', 'lio_corral.P', 'lio_corral.E', 'lio_gulp.P', 'lio_gulp.E', 'lio_hover.P', 'lio_hover.E'],
+    ['lio_invader.P', 'lio_invader.E', 'lio_night.P', 'lio_night.E', 'lio_spines.P', 'lio_spines.E', 'lio_warn.P', 'lio_warn.E', 'sea_anchor.P'],
+    ['sea_anchor.E', 'sea_drift.P', 'sea_drift.E', 'sea_fin.P', 'sea_fin.E', 'sea_plates.P', 'sea_snap.P', 'sea_snap.E', 'snl_radula.P'],
+    ['snl_radula.E', 'snl_rain.P', 'snl_rain.E', 'snl_seal.P', 'snl_seal.E', 'snl_slime.P', 'snl_slime.E', 'snl_stalks.P', 'snl_stalks.E'],
+    ['jel_bloom.P', 'jel_bloom.E', 'jel_glow.P', 'jel_glow.E', 'jel_pulse.P', 'jel_pulse.E', 'jel_reverse.P', 'jel_reverse.E', 'jel_sting.P'],
+    ['jel_trail.P', 'jel_trail.E', 'crs_carapace.P', 'crs_carapace.E', 'crs_molt.P', 'crs_molt.E', 'lob_crusher.P', 'lob_crusher.E', 'lob_den.P'],
+    ['lob_den.E', 'lob_feelers.P', 'lob_feelers.E', 'lob_flip.P', 'lob_flip.E', 'lob_march.P', 'lob_march.E', 'lob_pincer.P', 'lob_pincer.E'],
     ['btl_dead.P', 'btl_dead.E', 'btl_elytra.P', 'btl_elytra.E', 'btl_horn.P', 'btl_horn.E', 'btl_roll.P', 'btl_roll.E', 'btl_spray.P'],
     ['btl_spray.E', 'btl_strong.P', 'btl_strong.E', 'ins_antennae.P', 'ins_antennae.E', 'but_eyespots.P', 'but_eyespots.E', 'but_flutter.P', 'but_flutter.E'],
     ['but_morph.P', 'but_morph.E', 'but_scales.P', 'but_scales.E', 'but_sip.P', 'but_sip.E', 'ffl_bitter.P', 'ffl_bitter.E', 'ffl_dark.P'],

diff --git a/tools/ability-art.js b/tools/ability-art.js
@@ -77,7 +77,18 @@ function plan() {
   const sheets = readPlan();
   const placed = new Set(sheets.flat());
   const want = allFaces();
-  const fresh = want.filter((k) => !placed.has(k));
+  // new faces fill in most-played first: the pre-made pilots' kits, then the rest of their clades, then the rest
+  const kit = new Set(T.PREBUILTS.flatMap((p) => p.cards));
+  const kin = new Set(T.PREBUILTS.flatMap((p) => p.species));
+  const rank = (k) => {
+    const id = k.split('.')[0];
+    return kit.has(id) ? 0 : kin.has(T.CARD[id].sp) ? 1 : 2;
+  };
+  const fresh = want
+    .filter((k) => !placed.has(k))
+    .map((k, i) => [rank(k), i, k])
+    .sort((a, b) => a[0] - b[0] || a[1] - b[1])
+    .map((x) => x[2]);
   let last = sheets[sheets.length - 1];
   for (const k of fresh) {
     if (!last || last.length >= PER) sheets.push((last = []));
@@ -88,7 +99,7 @@ function plan() {
 }
 
 /** A face as a picture: the animal and what it is doing, without the numbers. */
-function describe(key) {
+function describe(key, short) {
   const [id, fk] = key.split('.');
   const c = T.CARD[id];
   const face = c[fk];
@@ -102,11 +113,11 @@ function describe(key) {
     .replace(/\(\s*\)/g, '')
     .replace(/\s+([,.;:])/g, '$1')
     .replace(/\s{2,}/g, ' ');
-  const glow =
-    fk === 'E'
-      ? ` Ethereal: the trait is charged with ${glowOf(face.elt || c.el)} light that streams off it.`
-      : ' Physical: no glow, raw texture, speed and force.';
-  return `the trait "${c.name}" from ${whose} body, doing "${face.n}" (${txt}). Show only the trait itself, so close it fills the frame: its pattern, texture and the motion of the move.${glow}`;
+  const glow = fk === 'E' ? ` Ethereal: ${glowOf(face.elt || c.el)} light streams off it.` : ' Physical: no glow.';
+  // no names in quotes: a lighter model letters quoted words onto the painting as captions
+  // short: only the first clause of the face text, for sheets where the lighter model lettered the rules onto the art
+  const act = short ? txt.split(/[:.;]/)[0].trim() : txt.replace(/\.$/, '');
+  return `${whose} ${c.name.toLowerCase()}, in action: ${act}.${glow}`;
 }
 
 function glowOf(el) {
@@ -114,40 +125,103 @@ function glowOf(el) {
 }
 
 const STYLE =
-  'A 3x3 grid of nine square painted card illustrations, separated by thin dark navy gutters. ' +
+  'A 3x3 grid of exactly nine equal square painted card illustrations in three even rows of three, separated by thin dark navy gutters. ' +
   'Each cell is an abstract, extreme close-up of one animal trait in action, the way a trading card shows a power: ' +
   'never a whole animal, never eyes, a mouth, a face or a head, never a recognisable earth creature; only the trait itself (stripes, claws, ' +
   'scales, feathers, tail, plates, skin, light) cropped tight, with motion blur, speed lines of dust, sparks or water and a hint of the ' +
   'alien planet Tumult behind (dark rock, glowing crystal veins). The creatures of Tumult are hybrids of three animals, so the ' +
   'trait should read as a part of something larger and stranger. Rich semi-realistic painting, dramatic rim light, deep shadow; ' +
   'the action sits in a wide band across the middle of the cell so it still reads when cropped to a short strip. ' +
-  'No text, letters, numbers, frames or UI anywhere. Cells, left to right, top to bottom:';
+  'Show only the trait, so close it fills the frame: its pattern, texture and the motion of the move. ' +
+  'Absolutely no text, captions, titles, labels, letters, numbers, frames or UI anywhere in the image; do not number the cells. Every row holds exactly three cells, never four. Cells, left to right, top to bottom:';
 
-function prompt(n) {
+function prompt(n, short) {
   const s = readPlan()[n - 1];
   if (!s) throw new Error(`no sheet ${n}`);
-  return STYLE + '\n' + s.map((k, i) => `(${i + 1}) ${describe(k)}`).join('\n');
+  const cells = s.map((k, i) => `(${i + 1}) ${describe(k, short)}`);
+  // a short last sheet still asks for nine cells, so the grid stays 3×3; the spare cells are never shown
+  for (let i = s.length; i < 9; i++) cells.push(`(${i + 1}) dark rock with faint glowing crystal veins, nothing else.`);
+  return STYLE + '\n' + cells.join('\n');
+}
+
+/**
+ * Where the gutters of a generated 3×3 sheet fall along one axis. Models don't always split the square in equal
+ * thirds, so each line of pixels across the sheet is scored by how much of it is gutter-dark (a dark navy with
+ * little colour), and the cells lie between the runs of gutter lines. Falls back to equal thirds.
+ */
+function bands(rgb, w, h, axis) {
+  const len = axis === 'x' ? w : h,
+    other = axis === 'x' ? h : w;
+  const score = new Float64Array(len);
+  for (let i = 0; i < len; i++) {
+    let dark = 0;
+    for (let j = 0; j < other; j += 2) {
+      const o = 3 * (axis === 'x' ? j * w + i : i * w + j);
+      const r = rgb[o],
+        g = rgb[o + 1],
+        bl = rgb[o + 2];
+      if (Math.max(r, g, bl) < 70 && bl >= r) dark++;
+    }
+    score[i] = dark / Math.ceil(other / 2);
+  }
+  const isG = (i) => score[i] > 0.85;
+  // the outer border, if any
+  let lo = 0,
+    hi = len - 1;
+  while (lo < len / 10 && isG(lo)) lo++;
+  while (hi > len - len / 10 && isG(hi)) hi--;
+  const cuts = [];
+  for (const [f0, f1] of [
+    [0.22, 0.45],
+    [0.55, 0.78],
+  ]) {
+    let best = null;
+    for (let i = Math.floor(len * f0); i < len * f1; i++) {
+      if (!isG(i)) continue;
+      let j = i;
+      while (j + 1 < len && isG(j + 1)) j++;
+      if (!best || j - i > best[1] - best[0]) best = [i, j];
+      i = j;
+    }
+    cuts.push(best);
+  }
+  if (cuts.some((c) => !c)) {
+    const t = (hi - lo) / 3;
+    return [0, 1, 2].map((k) => [lo + k * t, lo + (k + 1) * t]);
+  }
+  return [
+    [lo, cuts[0][0]],
+    [cuts[0][1] + 1, cuts[1][0]],
+    [cuts[1][1] + 1, hi + 1],
+  ];
 }
 
 function cut(n, file) {
   fs.mkdirSync(OUT, { recursive: true });
   const tmp = fs.mkdtempSync(path.join(require('os').tmpdir(), 'abil-'));
   const [w, h] = execFileSync('identify', ['-format', '%w %h', file + '[0]'], { encoding: 'utf8' }).split(' ').map(Number);
-  const cw = w / 3,
-    ch = h / 3,
-    trim = 0.03;
+  const rgb = execFileSync('convert', [file + '[0]', '-depth', '8', 'rgb:-'], { maxBuffer: 1 << 28 });
+  const xs = bands(rgb, w, h, 'x'),
+    ys = bands(rgb, w, h, 'y');
   const cells = [];
   for (let i = 0; i < 9; i++) {
-    const x = (i % 3) * cw + cw * trim,
-      y = Math.floor(i / 3) * ch + ch * trim;
+    const [x0, x1] = xs[i % 3],
+      [y0, y1] = ys[Math.floor(i / 3)];
+    // a hair inside the cell, so no gutter or soft edge shows
+    const ix = (x1 - x0) * 0.02,
+      iy = (y1 - y0) * 0.02;
     const out = path.join(tmp, `c${i}.png`);
     execFileSync('convert', [
       file + '[0]',
       '-crop',
-      `${Math.round(cw * (1 - 2 * trim))}x${Math.round(ch * (1 - 2 * trim))}+${Math.round(x)}+${Math.round(y)}`,
+      `${Math.round(x1 - x0 - 2 * ix)}x${Math.round(y1 - y0 - 2 * iy)}+${Math.round(x0 + ix)}+${Math.round(y0 + iy)}`,
       '+repage',
       '-resize',
-      `${CELL}x${CELL}!`,
+      `${CELL}x${CELL}^`,
+      '-gravity',
+      'center',
+      '-extent',
+      `${CELL}x${CELL}`,
       out,
     ]);
     cells.push(out);
@@ -156,12 +230,12 @@ function cut(n, file) {
   execFileSync('montage', [...cells, '-tile', '3x3', '-geometry', `${CELL}x${CELL}+0+0`, '-background', '#0d1424', path.join(tmp, 'm.png')]);
   execFileSync('convert', [path.join(tmp, 'm.png'), '-quality', '66', '-define', 'webp:method=6', dest]);
   fs.rmSync(tmp, { recursive: true, force: true });
-  console.log(`${dest} (${fs.statSync(dest).size} bytes)`);
+  console.log(`${dest} (${fs.statSync(dest).size} bytes) cols ${xs.map((c) => c.map(Math.round).join('-')).join(' ')} rows ${ys.map((c) => c.map(Math.round).join('-')).join(' ')}`);
 }
 
 const [cmd, a, b] = process.argv.slice(2);
 if (cmd === 'plan') plan();
-else if (cmd === 'prompt') console.log(prompt(Number(a)));
+else if (cmd === 'prompt') console.log(prompt(Number(a), b === 'short'));
 else if (cmd === 'keys')
   console.log(STYLE + '\n' + process.argv.slice(3).map((k, i) => `(${i + 1}) ${describe(k)}`).join('\n'));
 else if (cmd === 'cut') cut(Number(a), b);
